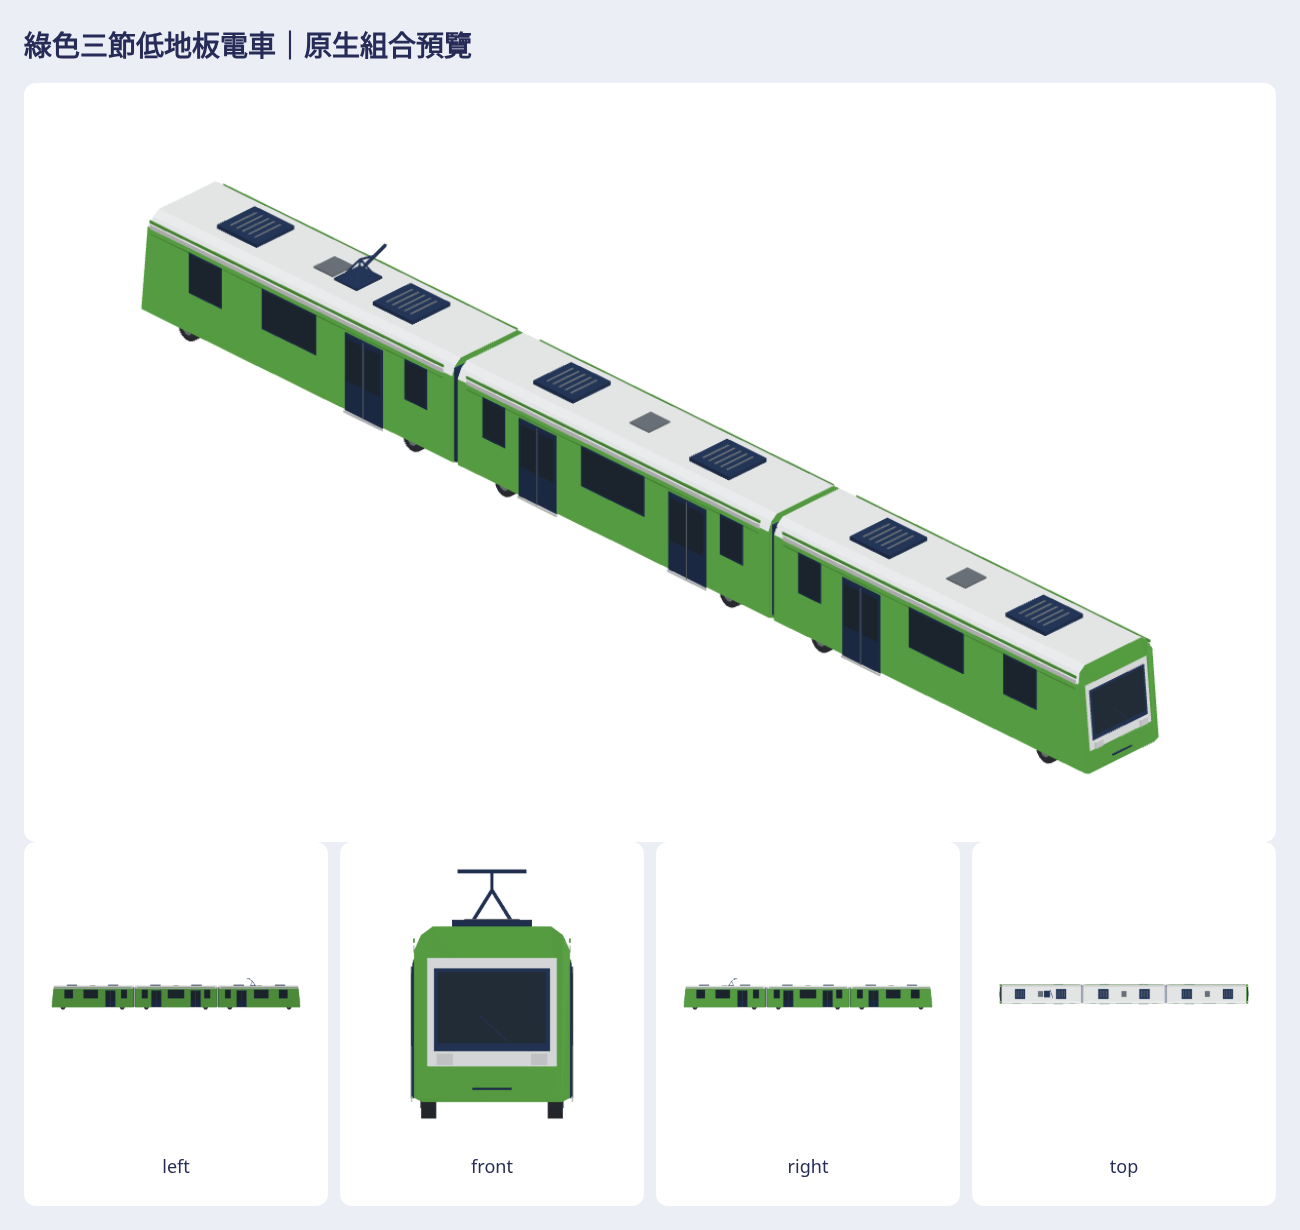
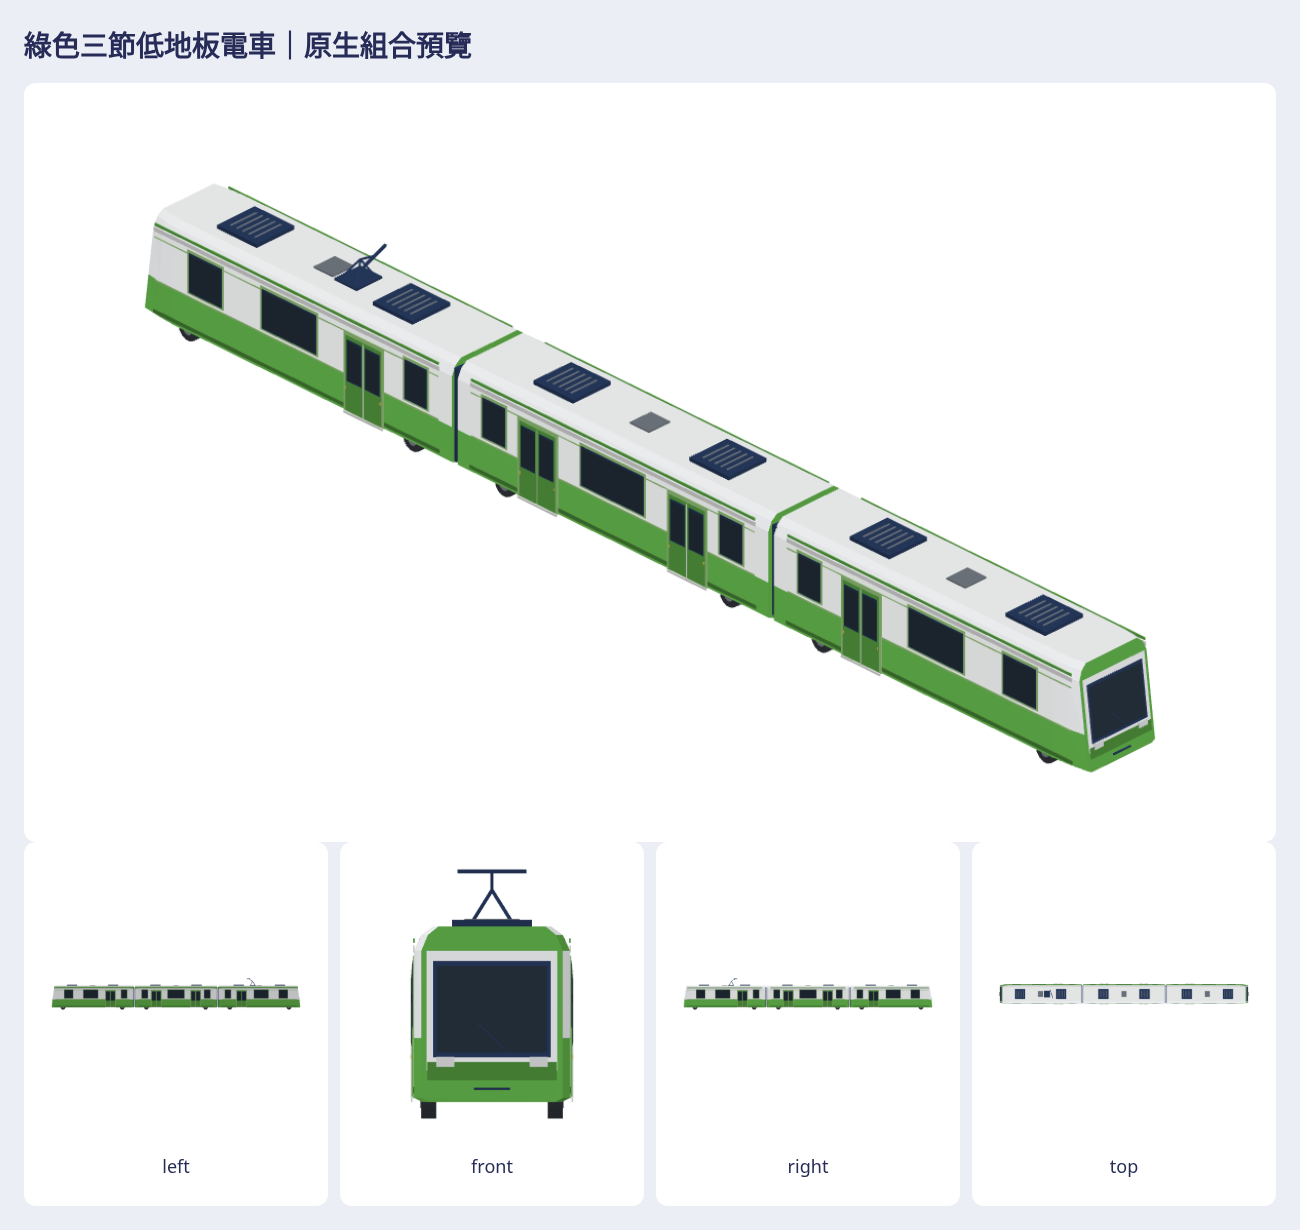
Refine green tram cab and game palette

diff --git a/Sources/GamePresentation/Map3DGreenTram.swift b/Sources/GamePresentation/Map3DGreenTram.swift
@@ -36,36 +36,43 @@ extension StationKitBuilder {
     mutating func greenTramSection(_ section: Map3DGreenTram.Section) {
         let white = Map3DGreenTram.roof, green = Map3DGreenTram.body
         let ink = Self.ink, glass = Map3DGreenTram.glass, steel = Self.steel
+        let pale = Map3DPalette.park, skirt = Map3DColor.shaded(green, 0.79)
         let isCab = section != .middle
         let cabAtFront = section == .head
         let centre = Map3DPoint(0, 1.6, 0)
-        // Six-sided shoulder, flat crown and tapered skirt. The cab end
-        // changes x at three heights; it is not a flat plane with trim on it.
-        func endX(_ positive: Bool, _ h: Float) -> Float {
-            let sign: Float = positive ? 1 : -1
-            let driving = isCab && positive == cabAtFront
-            if !driving { return sign * 5.42 }
-            if h > 3 { return sign * 5.12 }
-            if h > 2.6 { return sign * 5.20 }
-            if h > 1.2 { return sign * 5.36 }
-            return sign * 5.42
-        }
-        func ring(_ positive: Bool) -> [Map3DPoint] {
+        // The cab shoulder narrows in plan as well as rising in side view.
+        // A full-width root ring keeps the long straight body; intermediate
+        // rings form the distinct, shallow wedge at each driving end.
+        func ring(_ x: Float, _ nose: Float = 0) -> [Map3DPoint] {
             let yz: [(Float, Float)] = [
-                (0.28,-1.15),(0.35,-1.29),(2.78,-1.29),
+                (0.28,-1.15),(0.35,-1.29),(1.34,-1.29),(2.78,-1.29),
                 (3.04,-1.17),(3.18,-0.98),(3.18,0.98),
-                (3.04,1.17),(2.78,1.29),(0.35,1.29),(0.28,1.15)
+                (3.04,1.17),(2.78,1.29),(1.34,1.29),(0.35,1.29),(0.28,1.15)
             ]
-            return yz.map { h,z in Map3DPoint(endX(positive,h),h,z) }
+            return yz.map { h,z in
+                let rake = nose * max(0, h-0.35) * 0.125
+                let taper = 1 - nose * 0.095
+                return Map3DPoint(x - (x >= 0 ? rake : -rake),h,z*taper)
+            }
         }
-        let rear = ring(false), front = ring(true)
-        for i in 0..<rear.count {
-            let j = (i+1)%rear.count
-            let color = (i >= 2 && i <= 6) ? white : green
-            face([rear[i],rear[j],front[j],front[i]],inside:centre,color:color)
+        let cabSign: Float = cabAtFront ? 1 : -1
+        let rings: [[Map3DPoint]] = isCab
+            ? (cabAtFront ? [ring(-5.42),ring(4.30),ring(4.85,0.35),ring(5.42,1)]
+                          : [ring(-5.42,1),ring(-4.85,0.35),ring(-4.30),ring(5.42)])
+            : [ring(-5.42),ring(5.42)]
+        for k in 0..<(rings.count-1) {
+            for i in 0..<rings[k].count {
+                let j = (i+1)%rings[k].count
+                let color = [2,4,5,6,7,8].contains(i) ? white
+                    : (i == 0 || i == 11 ? skirt : green)
+                let a = rings[k][i], b = rings[k][j]
+                let c = rings[k+1][j], d = rings[k+1][i]
+                face([a,b,c],inside:centre,color:color)
+                face([a,c,d],inside:centre,color:color)
+            }
         }
-        face(front,inside:centre,color:green)
-        face(rear,inside:centre,color:green)
+        face(rings[0],inside:centre,color:green)
+        face(rings[rings.count-1],inside:centre,color:green)
         // Continuous sill and chassis; the tiny wheelsets sit partly within
         // the deep green skirt, as in the side views.
         box(0,0.31,0,10.65,2.05,0.15,ink)
@@ -73,48 +80,57 @@ extension StationKitBuilder {
             civicTube(Map3DPoint(axle,0.32,side*0.92),Map3DPoint(axle,0.32,side*1.17),radius:0.32,color:Map3DStreetModel.tyre,sides:14)
             civicTube(Map3DPoint(axle,0.32,side*1.17),Map3DPoint(axle,0.32,side*1.185),radius:0.15,color:steel,sides:10)
         }}
-        // White brow continues into the roof shoulder; the slim green rail
-        // remains visible along the top of both sides and both cab faces.
+        // A light shoulder, calm pale-green window surrounds and darker
+        // green sill break up the former uninterrupted slab of saturated
+        // green. Every pane is backed by the closed shell.
         for side: Float in [-1,1] {
-            box(0,2.91,side*1.287,10.25,0.025,0.075,green)
-            box(0,2.75,side*1.290,10.22,0.021,0.12,white)
-            box(0,2.60,side*1.294,10.18,0.016,0.035,green)
+            box(0,2.91,side*1.287,9.90,0.025,0.075,green)
+            box(0,2.75,side*1.290,9.95,0.021,0.12,white)
+            box(0,2.57,side*1.294,9.92,0.014,0.035,pale)
+            box(0,1.34,side*1.291,9.88,0.014,0.045,pale)
+            box(0,0.42,side*1.293,10.0,0.018,0.11,skirt)
             let windows: [(Float,Float)] = section == .middle
                 ? [(-4.14,0.80),(0,2.20),(4.14,0.80)]
                 : cabAtFront ? [(-4.17,0.78),(0.25,1.90),(3.17,1.15)]
                              : [(-3.17,1.15),(-0.25,1.90),(4.17,0.78)]
             for (x,w) in windows {
-                box(x,1.48,side*1.298,w,0.018,1.15,ink)
-                box(x,1.53,side*1.308,w-0.07,0.012,1.05,glass)
+                box(x,1.45,side*1.298,w+0.11,0.018,1.25,pale)
+                box(x,1.50,side*1.309,w,0.010,1.12,ink)
+                box(x,1.53,side*1.317,w-0.055,0.008,1.04,glass)
+                box(x,1.92,side*1.323,w-0.08,0.005,0.14,Map3DColor.shaded(glass,1.14))
             }
             let doors: [Float] = section == .middle ? [-2.61,2.61] : [cabAtFront ? -2.36 : 2.36]
             for x in doors {
-                box(x,0.34,side*1.300,1.32,0.025,2.21,ink)
+                box(x,0.34,side*1.300,1.41,0.025,2.27,pale)
                 for leaf: Float in [-1,1] {
-                    box(x+leaf*0.32,0.37,side*1.319,0.62,0.014,2.15,ink)
-                    box(x+leaf*0.32,1.21,side*1.329,0.52,0.008,1.20,glass)
+                    box(x+leaf*0.32,0.37,side*1.319,0.61,0.014,2.13,green)
+                    box(x+leaf*0.32,1.21,side*1.329,0.51,0.008,1.18,ink)
+                    box(x+leaf*0.32,1.25,side*1.336,0.47,0.006,1.08,glass)
                 }
-                box(x,0.34,side*1.335,0.025,0.014,2.18,steel)
+                box(x,0.34,side*1.335,0.020,0.014,2.12,white)
                 box(x,0.28,side*1.327,1.36,0.025,0.06,white)
+                for leaf: Float in [-1,1] {
+                    box(x+leaf*0.60,0.99,side*1.337,0.035,0.012,0.07,Map3DPalette.platformEdge)
+                }
             }
         }
         if isCab {
-            let sign: Float = cabAtFront ? 1 : -1
-            func plane(_ h: Float) -> Float { sign * (5.42 - (h-0.28)*0.095) }
+            let sign = cabSign
+            func plane(_ h: Float) -> Float { sign * (5.42 - max(0,h-0.35)*0.125) }
             func frontPanel(_ h0: Float,_ h1: Float,_ halfWidth: Float,_ lift: Float,_ color: UInt32) {
                 let p = [Map3DPoint(plane(h0)+sign*lift,h0,-halfWidth),Map3DPoint(plane(h0)+sign*lift,h0,halfWidth),Map3DPoint(plane(h1)+sign*lift,h1,halfWidth),Map3DPoint(plane(h1)+sign*lift,h1,-halfWidth)]
                 face(p,inside:centre,color:color)
             }
-            frontPanel(0.87,2.66,1.07,0.018,white)
-            frontPanel(1.12,2.49,0.96,0.030,ink)
-            frontPanel(1.25,2.43,0.89,0.041,glass)
-            frontPanel(0.53,0.78,1.08,0.036,green)
+            frontPanel(0.80,2.78,1.08,0.014,white)
+            frontPanel(1.02,2.61,0.97,0.025,ink)
+            frontPanel(1.10,2.53,0.91,0.037,glass)
+            frontPanel(0.64,0.94,1.07,0.032,skirt)
             for side: Float in [-1,1] {
-                box(plane(0.91)+sign*0.055,0.89,side*0.78,0.035,0.27,0.19,white)
+                box(plane(0.88)+sign*0.052,0.86,side*0.77,0.034,0.30,0.17,white)
             }
-            box(plane(0.49)+sign*0.035,0.48,0,0.035,0.65,0.04,ink)
+            box(plane(0.49)+sign*0.035,0.48,0,0.035,0.60,0.04,ink)
             // A narrow central wiper stays on the glass support plane.
-            beam(Map3DPoint(plane(1.29)+sign*0.052,1.29,-0.25),Map3DPoint(plane(1.71)+sign*0.052,1.71,0.20),0.018,ink)
+            beam(Map3DPoint(plane(1.14)+sign*0.055,1.14,-0.22),Map3DPoint(plane(1.58)+sign*0.055,1.58,0.23),0.018,ink)
         } else {
             // Open-looking but physically closed gangway ends. Middle has
             // neither a cab window nor headlamps.

diff --git a/docs/art/green-tram-2026-10-21/README.md b/docs/art/green-tram-2026-10-21/README.md
@@ -12,7 +12,7 @@
 | --- | --- | --- |
 | 三節車體 | 每節名義長 10.88 m，中心距 11.04 m，全長 32.985 m | 專案 `Map3DSceneKitTransport.swift` 的輕軌示意尺度為每節約 11 m；不是工程數據 |
 | 車體與輪組 | 主殼寬 2.58 m、含門邊飾條最大寬 2.684 m，屋頂高 3.18 m，兩個小輪軸位置在各節 ±3.92 m、輪半徑約 0.32 m | 從圖片形狀與現有模型比例推估；看不到底盤精確構造 |
-| 端部 | 頭節朝 +x，尾節駕駛端朝 −x；窗端隨高度後收約 0.3 m | 圖 1、3 的短鈍車頭與斜風擋；不是尖鼻高速列車 |
+| 端部 | 頭節朝 +x，尾節駕駛端朝 −x；駕駛端從完整車身寬度分兩級橫向收至約 91%，端面隨高度後收約 0.35 m | 圖 1、3 的短鈍車頭與斜風擋；不是尖鼻高速列車 |
 | 門窗 | 頭／尾節各一組雙扇門；中節兩組；兩側都有門窗 | 圖 2、4；玻璃與門板都有車身支持面 |
 | 屋頂 | 每節兩箱深色設備；只有尾節有集電弓 | 圖 1、3、4；設備確切用途無法判斷，因此不命名為真車系統 |
 
@@ -20,16 +20,17 @@
 
 ## 外觀驗收
 
-判讀以同一份 Swift 模型的白模輪廓與著色渲染為準。第一輪發現玻璃過灰，已改為專案列車的深藍玻璃色票，並重建四份新模型與 35 張（含既有輕軌對照）PNG。最終私有 `previews/clay-*.png`、`silhouette-*.png`、`overview.png`、`directions.png`、`units.png`、`style-comparison.png` 和 `views/green-tram-formation/` 供正面、兩側、俯視、立體及同公尺尺度檢查。使用者原始聊天圖片無可讀取的本地路徑，因此私有包沒有複製原圖，未製作宣稱像素對齊的拼圖。
+判讀以同一份 Swift 模型的白模輪廓與著色渲染為準。使用者指出第一版外觀不好看後，對照 `previews/before-after.png` 的同公尺尺度、同鏡頭三視圖：原版整片飽和綠側壁缺少層次，車頭平鈍，綠色門板與深色玻璃混成一大片。現在車頭從完整寬度經兩道截面收至約 91%，端面更後傾；車側改用專案 `tileWhite` 淺色窗區、`crown` 綠色下裙、`park` 淺綠窗框及 `Map3DTrainStyle.glass` 深藍玻璃，門板與窗帶分層。新截面逐段三角化，白色肩線繞過端部。最終私有 `previews/clay-*.png`、`silhouette-*.png`、`overview.png`、`directions.png`、`units.png`、`style-comparison.png` 和 `views/green-tram-formation/` 供檢查。使用者原始聊天圖片無可讀取的本地路徑，因此私有包沒有複製原圖，未製作宣稱像素對齊的拼圖。
 
 | 狀態 | 項目與對照 |
 | --- | --- |
 | 已符合 | 三個車節與兩個柔性連接、兩端獨立駕駛窗、中節無駕駛窗；見私有 `units.png` 與完整組合左右視圖 |
-| 已符合 | 短鈍斜車頭、白頂眉帶、綠色車身、深色窗門；見完整組合前視與立體圖，對照使用者圖 1、3 |
+| 已符合 | 短鈍且前端橫向收束的車頭、後傾端面、白頂眉帶、淺色上側壁與綠色下裙、深色窗門；見 `before-after.png` 前視／立體與最終前視，對照使用者圖 1、3 的結構，配色依遊戲美術重設 |
 | 已符合 | 集電弓只在一端、各節車頂設備與裙板下的小輪組；見俯視、左右視與下視，對照使用者圖 2、4 |
 | 資料不足 | 工程軸距、輪徑、底盤構造、真實端部燈配置；依圖像比例和專案 11 m 示意車尺度處理 |
+| 仍不符合 | 參考圖的上側壁是綠色，新版為了符合專案既有淺色輕軌車美術改成淺灰白；這是有意的配色差異，見 `before-after.png` 左視與參考圖 2、4 |
 
-目前沒有確認的主要輪廓不符合項。此判斷是依人工同視角辨識特徵的檢查，並非相似度分數或作者認可。
+就可辨的三節數量、短車端、低裙板、門窗節奏及單端集電弓，未再發現主要輪廓錯置。仍是人工判讀，沒有像素對齊參考或作者驗收；同鏡頭前後圖只證明本次修正，不能替代和原圖的精確比對。
 
 ## 使用與交接
 

diff --git a/tools/green-tram/README.md b/tools/green-tram/README.md
@@ -11,10 +11,13 @@ node tools/green-tram/clay.mjs /path/outside/public/repo/green-tram
 node tools/green-tram/verify.mjs /path/outside/public/repo/green-tram
 python3 tools/green-tram/verify-png.py /path/outside/public/repo/green-tram
 node tools/green-tram/browser-check.mjs /path/outside/public/repo/green-tram
+node tools/green-tram/feedback-compare.mjs /path/outside/public/repo/green-tram /path/to/prior-export
 python3 tools/green-tram/bundle.py /path/outside/public/repo/green-tram <actual-public-producer-commit>
 ```
 
 The exporter writes original `M3DM` models, fully embedded GLB, seven transparent PNGs per model, a WebGL viewer and SHA metadata. Four models are new tram assets; the fifth is the existing project light-rail subject for style comparison. The default camera fits each model, so individual preview PNGs are **not** a same-scale comparison. `previews/style-comparison.png` uses one fixed camera and actual metre coordinates.
+
+`feedback-compare.mjs` is optional when revising an export. It reads a saved earlier native formation and the current native formation, then writes `previews/before-after.png` and six transparent views. Both versions use the union of their true metre bounds and the same camera for left, front and isometric comparisons. The earlier model remains only in the supplied prior export; it is not copied into the final package.
 
 Assembly: nominal shell length is 10.88 m, unit centres are x = +11.04, 0, −11.04 m, giving a nominal 0.16 m body gap and about 0.08 m between the actual gangway envelopes. All unit origins are at the centre of their body, ground at z=0 after native conversion, +x to the leading head. No unit is rotated during assembly; the tail recipe has its own cab pointing to −x. It is static geometry, with no wheel, door or pantograph animation.
 
